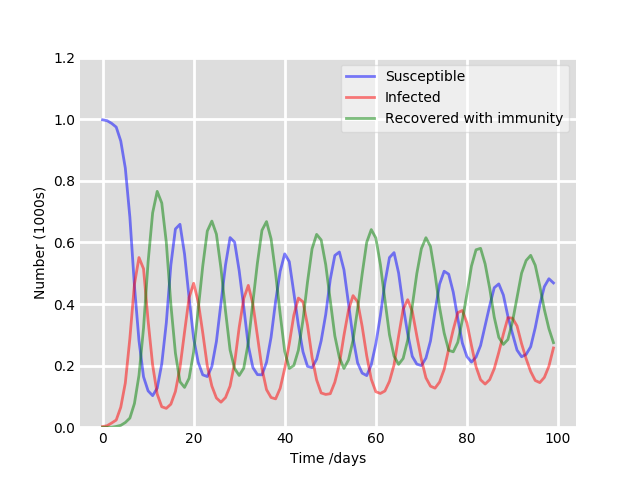
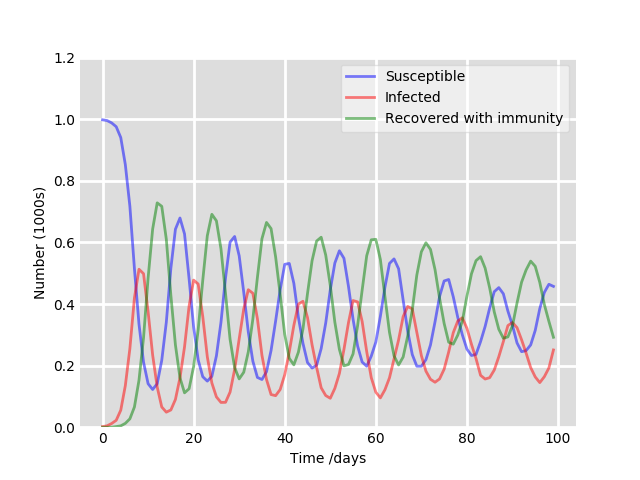
Changed assets for readme.

Changed region(s): [[0.1875, 0.3125, 0.875, 0.875], [0.6562, 0.5, 0.6875, 0.5312]]

diff --git a/sir_dataset.py b/sir_dataset.py
@@ -10,7 +10,7 @@ import scipy.ndimage
 STATE_SUSCEPTIBLE = 1
 STATE_INFECTED = 2
 STATE_RECOVERED = 3
-COLOR_SUSCEPTIBLE = (1.0, 1.0, 0.0)
+COLOR_SUSCEPTIBLE = (0.0, 0.0, 1.0)
 COLOR_INFECTED = (1.0, 0.0, 0.0)
 COLOR_RECOVERED = (0.0, 1.0, 0.0)
 
